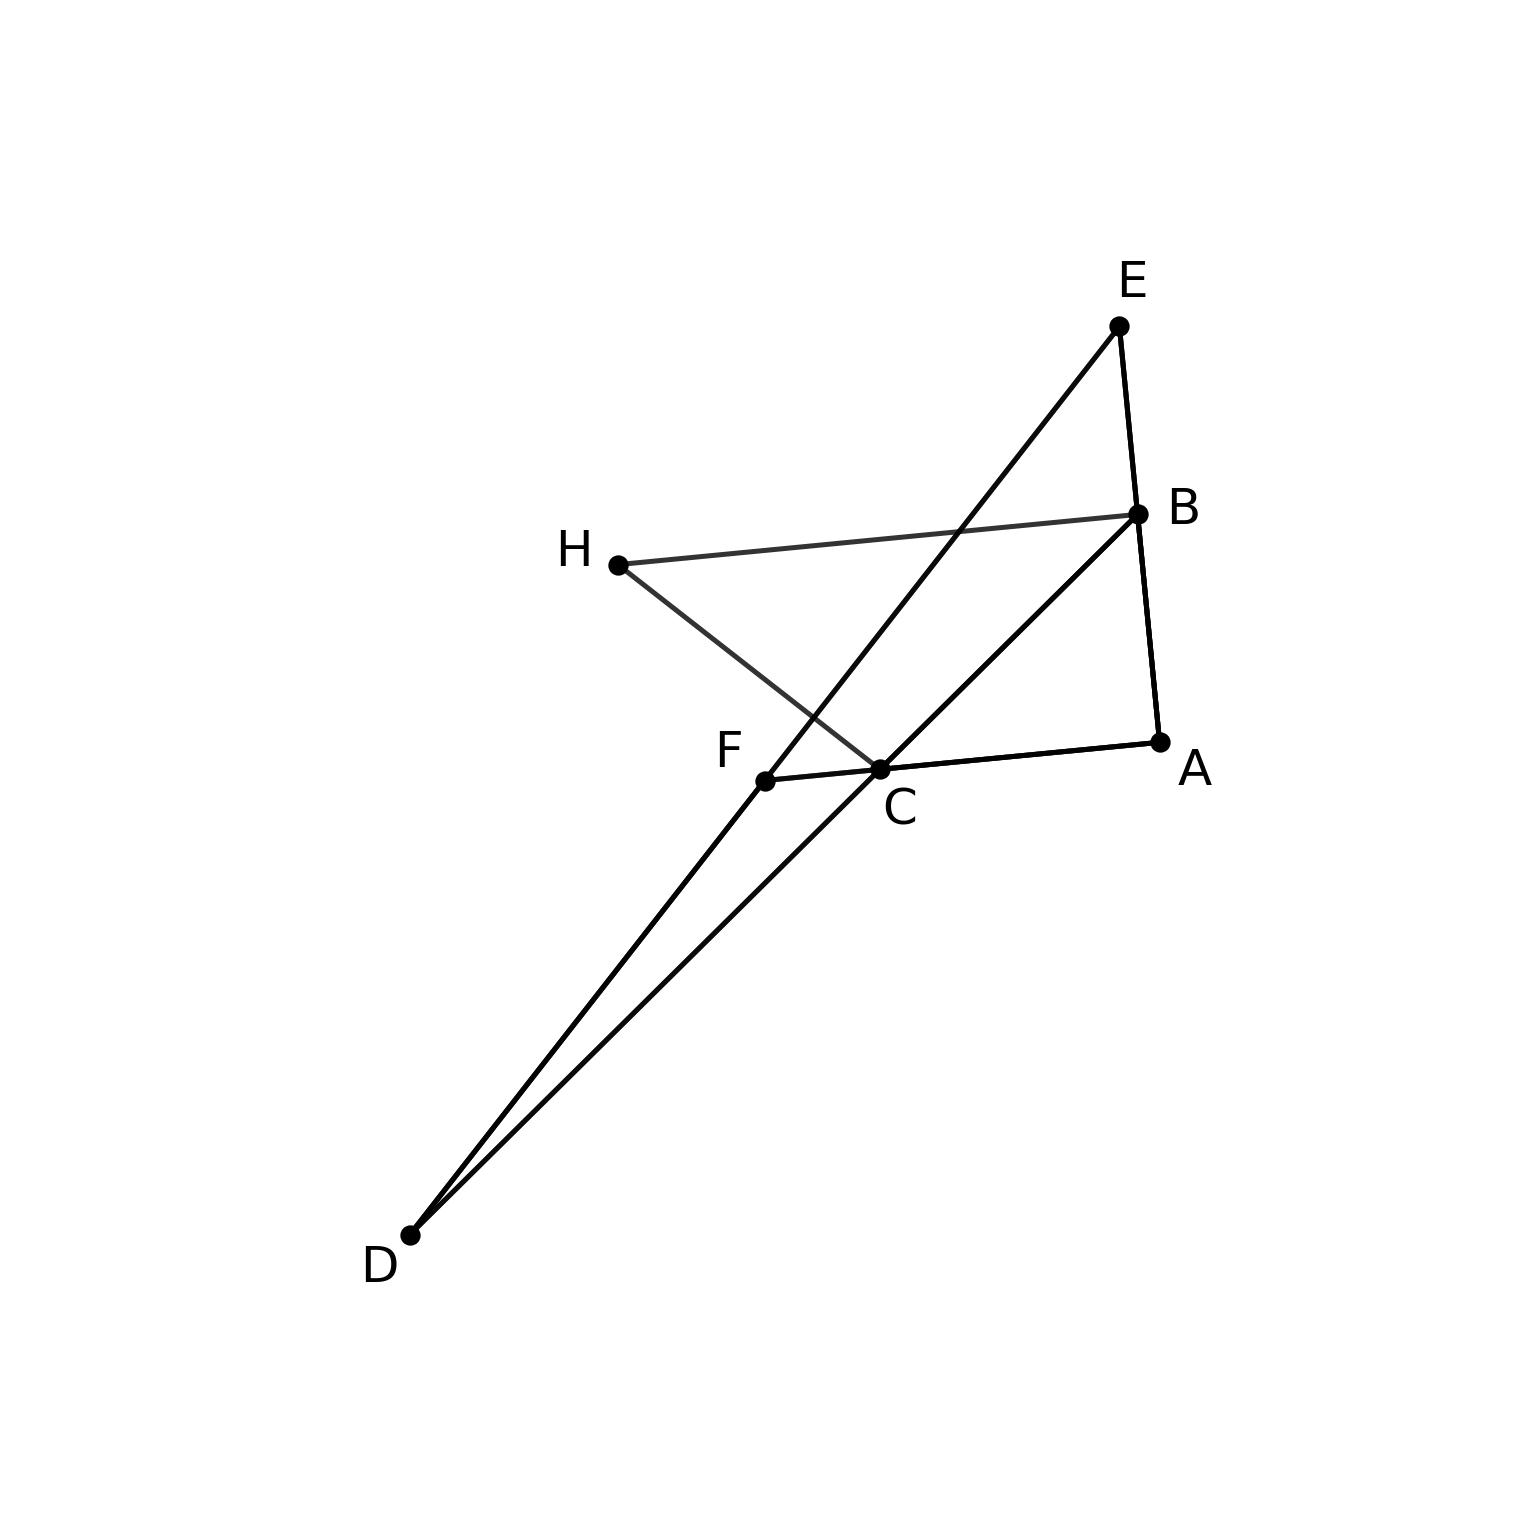
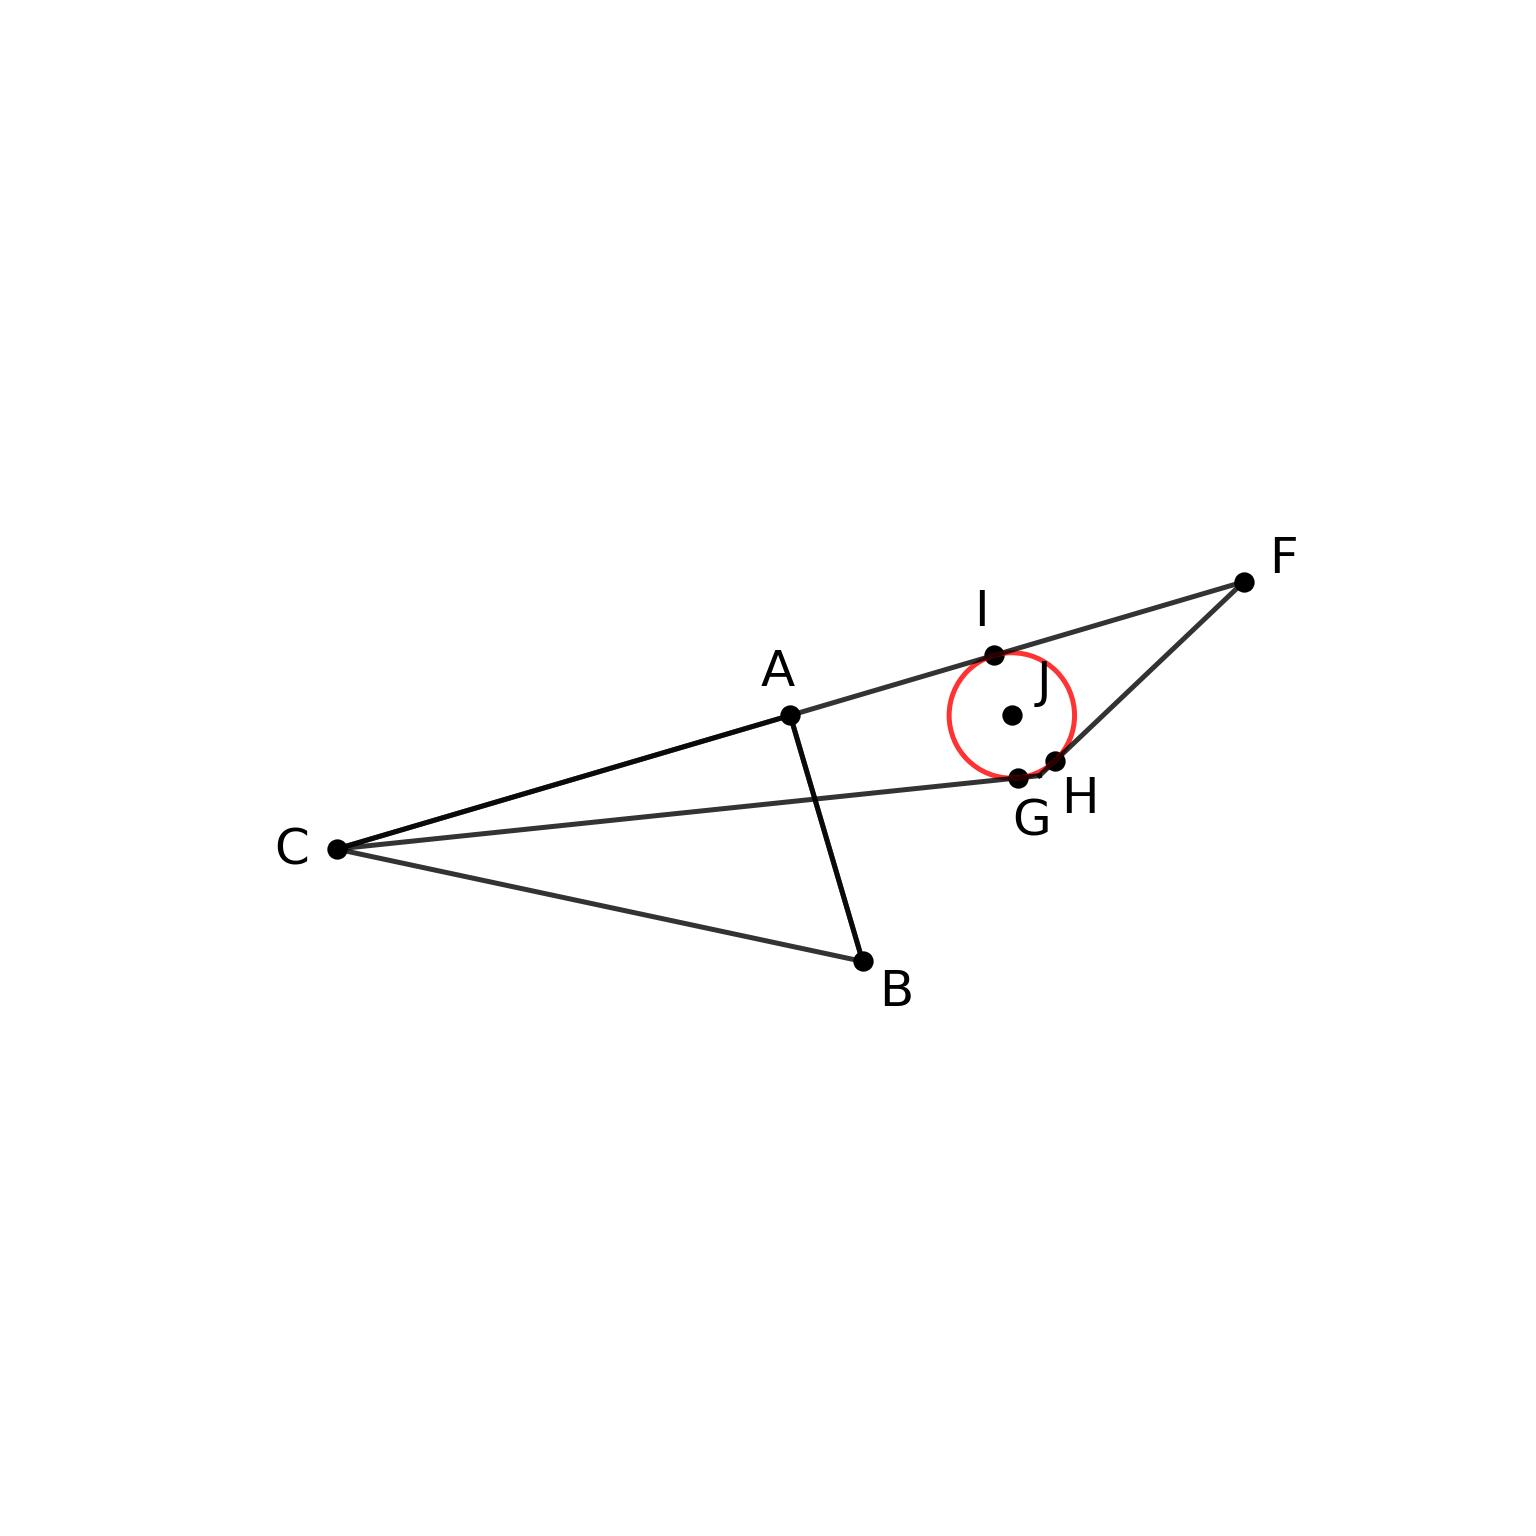
update

diff --git a/test_single.py b/test_single.py
@@ -4,11 +4,13 @@ import sympy
 import logging
 import argparse
 
+from stopit import ThreadingTimeout as TT
+
 from pyeuclid.formalization.state import State
 from pyeuclid.formalization.relation import *
 from pyeuclid.formalization.construction_rule import *
 from pyeuclid.formalization.utils import *
-from pyeuclid.engine.inference_rule import inference_rule_sets
+from pyeuclid.engine.inference_rule import *
 from pyeuclid.engine.deductive_database import DeductiveDatabase
 from pyeuclid.engine.algebraic_system import AlgebraicSystem
 from pyeuclid.engine.proof_generator import ProofGenerator
@@ -24,7 +26,7 @@ def run_single_problem(args):
     # state.silent = True
     state.logger.setLevel(logging.INFO)
     if args.problem_string is not None:
-        state.load_problem_from_text(args.problem_string, f'diagrams/JGEX-AG-231/test.jpg', resample=True)
+        state.load_problem_from_text(args.problem_string, f'diagrams/JGEX-AG-231/test.jpg')
     else:
         namespace = {}
         with open(f'data/Geometry3K/{args.problem_id}/problem.py', "r") as file:
@@ -40,32 +42,36 @@ def run_single_problem(args):
     proof_generator = ProofGenerator(state)
     engine = Engine(state, deductive_database, algebraic_system)
     t0 = time.time()
-    engine.run()
-    # while True:
-    #     # 001. BC ∥ FG [04] & BG ∥ CF [05] ⇒  ∠FGB = ∠BCF [07]
-    #     # 002. BG ∥ CF [05] ⇒  ∠FBG = ∠BFC [08]
-    #     # 003. ∠FGB = ∠BCF [07] & ∠FBG = ∠BFC [08] (Similar Triangles)⇒  BG = FC [09]
-    #     # 004. CB = BG [02] & BG = FC [09] ⇒  CF = CB [10]
-    #     # 005. BC ⟂ BG [03] & BC ∥ FG [04] ⇒  GF ⟂ GB [11]
-    #     # 006. AC ⟂ CD [01] & CD ∥ AE [06] ⇒  CA ⟂ AE [12]
-    #     # 007. GF ⟂ GB [11] & CA ⟂ AE [12] ⇒  ∠(FG-AE) = ∠(BG-AC) [13]
-    #     # 008. GF ⟂ GB [11] & CA ⟂ AE [12] ⇒  ∠FGB = ∠CAE [14]
-    #     # 009. ∠(FG-AE) = ∠(BG-AC) [13] & BC ∥ FG [04] & AE ∥ CD [06] & BG ∥ CF [05] ⇒  ∠ACF = ∠DCB [15]
-    #     # 010. AC = CD [00] & CF = CB [10] & ∠ACF = ∠DCB [15] (SAS)⇒  ∠(AF-BD) = ∠FCB [16]
-    #     # 011. AC = CD [00] & CF = CB [10] & ∠ACF = ∠DCB [15] (SAS)⇒  ∠DCA = ∠(BD-AF) [17]
-    #     # 012. ∠(AF-BD) = ∠FCB [16] & CF ∥ BG [05] & ∠FGB = ∠CAE [14] & BC ∥ FG [04] & AE ∥ CD [06] & ∠DCA = ∠(BD-AF) [17] ⇒  DB ⟂ FA
-    #     engine.search(depth=1)
-    #     p1 = state.check_conditions(Length(Point('b'),Point('g'))-Length(Point('f'),Point('c')))
-    #     p2 = state.check_conditions(Angle(Point('f'),Point('g'),Point('b'))-Angle(Point('c'),Point('a'),Point('e')))
-    #     p3 = state.check_conditions(Angle(Point('a'),Point('c'),Point('f'))-Angle(Point('d'),Point('c'),Point('b')))
-    #     print(p1, p2, p3)
-    #     input()
+    # engine.run()
+    while True:
+        engine.search(depth=1)
+    # 001. P,C,A are collinear [03] & B,Q,A are collinear [01] & DQ ⟂ AB [02] & DP ⟂ AC [04] ⇒  ∠APD = ∠AQD [05]
+    # 002. ∠APD = ∠AQD [05] ⇒  P,Q,D,A are concyclic [06]
+    # 003. P,Q,D,A are concyclic [06] ⇒  ∠PQD = ∠PAD [07]
+    # 004. B,Q,A are collinear [01] & DQ ⟂ AB [02] ⇒  QD ⟂ BQ [08]
+    # 005. QD ⟂ BQ [08] & AD ⟂ BC [00] ⇒  ∠QDA = ∠QBC [09]
+    # 006. B,Q,A are collinear [01] & P,C,A are collinear [03] & ∠PQD = ∠PAD [07] & ∠QDA = ∠QBC [09] ⇒  ∠QBC = ∠QPC [10]
+    # 007. ∠QBC = ∠QPC [10] ⇒  B,Q,P,C are concyclic
+        p1 = state.check_conditions(Angle(Point('a'),Point('p'),Point('d'))-Angle(Point('a'),Point('q'),Point('d')))
+        p2 = state.check_conditions(Concyclic(Point('p'),Point('q'),Point('d'),Point('a')))
+        p3 = state.check_conditions(Angle(Point('p'),Point('q'),Point('d'))-Angle(Point('p'),Point('a'),Point('d')))
+        p4 = state.check_conditions(Perpendicular(Point('q'),Point('d'),Point('b'),Point('q')))
+        p5 = state.check_conditions(Angle(Point('q'),Point('d'),Point('a'))-Angle(Point('q'),Point('b'),Point('c')))
+        p6 = state.check_conditions(Angle(Point('q'),Point('b'),Point('c'))+Angle(Point('q'),Point('p'),Point('c'))-pi)
+        p7 = state.check_conditions(Concyclic(Point('b'),Point('q'),Point('p'),Point('c')))
+        print(p1, p2, p3, p4, p5, p6,p7)
+        for cond in AlphaGeometry5b(Point('c'),Point('q'),Point('b'),Point('p')).condition():
+            print(cond, state.check_conditions(cond))
+        print(AlphaGeometry5b(Point('c'),Point('q'),Point('b'),Point('p')).conclusion())
+        print(state.angles.equivalence_classes())
+        breakpoint()
+        
     t = time.time() - t0
     result = state.complete()
     if result is not None:
         if args.show_proof:
             t0 = time.time()
-            with Timeout(600):
+            with TT(600):
                 proof_generator.run()
                 proof = proof_generator.format_proof()
                 max_cond_num = 0

diff --git a/generate.py b/generate.py
@@ -5,6 +5,7 @@ import random
 from pyeuclid.formalization.diagram import Diagram
 from pyeuclid.formalization.state import State
 from pyeuclid.formalization.construction_rule import *
+from pyeuclid.formalization.translation import get_constructions_from_goal
 from pyeuclid.engine.deductive_database import DeductiveDatabase
 from pyeuclid.engine.algebraic_system import AlgebraicSystem
 from pyeuclid.engine.proof_generator import ProofGenerator
@@ -97,13 +98,14 @@ def generate():
     engine.search()
 
     i = 0
-    def generate_data(relation, i):
-        if isinstance(relation, Relation):  
-            points = relation.get_points()
+    def generate_data(goal, i):
+        if isinstance(goal, Relation):  
+            points = goal.get_points()
         else:
-            points = get_points_and_symbols(relation)[0]
+            points_list = get_points_and_symbols(goal)[0]
+            points = [p for points in points_list for p in points]
         
-        constructions = proof_generator.source_constructions[relation]
+        constructions = proof_generator.source_constructions[goal]
         auxilirary_constructions = []
         required_points = set(points)
 
@@ -115,7 +117,7 @@ def generate():
             if all(p not in required_points for p in construction.outputs):
                 auxilirary_constructions.append(construction)
 
-        proof_str = proof_generator.get_proof_str(relation)
+        proof_str = proof_generator.get_proof_str(goal)
         if auxilirary_constructions:
             auxilirary_constructions = sorted(auxilirary_constructions, key=lambda c: c.index)
             aux_proof = 'Auxilirary Constructions:\n'
@@ -124,16 +126,19 @@ def generate():
             proof_str = aux_proof + proof_str
 
         diagram.save()
-        proof = proof_generator.get_proof(relation)        
+        proof = proof_generator.get_proof(goal)        
         diagram.auxiliary_constructions.extend(auxilirary_constructions)
         diagram_path = os.path.join(ROOT_DIR, f'samples/{i}/diagram.jpg')
         diagram.save_path = diagram_path
-        diagram.draw_diagram(constructions=constructions, save=True)
+        goal_constructions = get_constructions_from_goal(goal)
+        diagram.draw([], goal_constructions)
+        diagram.draw_diagram(constructions=constructions+goal_constructions, save=True)
         diagram.restore()
         
         data_path = os.path.join(ROOT_DIR, f'samples/{i}/')
         data = {
             "problem": ', '.join([str(construction) for construction in constructions]),
+            "goal": goal,
             "diagram": diagram_path,
             "proof": proof_str,
         }
@@ -142,7 +147,7 @@ def generate():
             json.dump(data, f, indent=2)
         i += 1
 
-        print(relation)
+        print(goal)
         input()
     
     proof_generator = ProofGenerator(state)

diff --git a/pyeuclid/formalization/translation.py b/pyeuclid/formalization/translation.py
@@ -43,25 +43,47 @@ def get_constructions_list_from_text(text):
 def get_constructions_from_goal(goal):
     if isinstance(goal, Relation):
         if isinstance(goal, Concyclic):
-            pass
+            a, b, c, d = goal.get_points()
+            return [construct_connect(a, b), construct_connect(b, c), construct_connect(c, d), construct_connect(d, a)]
         elif isinstance(goal, Collinear):
-            pass
+            a, b, c = goal.get_points()
+            return [construct_connect(a, b), construct_connect(b, c), construct_connect(c, a)]
         elif isinstance(goal, Perpendicular):
-            pass
+            a, b, c, d = goal.get_points()
+            return [construct_connect(a, b), construct_connect(c, d)]
         elif isinstance(goal, Parallel):
-            pass
+            a, b, c, d = goal.get_points()
+            return [construct_connect(a, b), construct_connect(c, d)]
         elif isinstance(goal, Midpoint):
-            pass
+            a, b, c = goal.get_points()
+            return [construct_connect(a, b), construct_connect(b, c), construct_connect(c, a)]
         elif isinstance(goal, Similar3):
-            pass
+            a, b, c, d, e, f = goal.get_points()
+            return [construct_connect(a, b), construct_connect(b, c), construct_connect(c, a), construct_connect(d, e), construct_connect(e, f), construct_connect(f, d)]
         elif isinstance(goal, Congruent3):
-            pass
+            a, b, c, d, e, f = goal.get_points()
+            return [construct_connect(a, b), construct_connect(b, c), construct_connect(c, a), construct_connect(d, e), construct_connect(e, f), construct_connect(f, d)]
         else:
             return []
     else:
+
         # classify angles - angles, angles + angles - const, angles - const, angles / angles - const,
-        # lengths - lenghs, lengths + lengths - const, lengths - const, lengths / lengths - const, length/length - length/length
-        return []
+        # lengths - lenghs, lengths + lengths - const, lengths - const, lengths / lengths - const, length/length - length/length 
+        res = []
+        points_list, symbols = get_points_and_symbols(goal)
+        for points, symbol in zip(points_list, symbols):
+            if 'Length' in str(symbol):
+                assert len(points) == 2
+                res.append(construct_connect(points[0], points[1]))
+            elif 'Angle' in str(symbol):
+                assert len(points) == 3
+                res.append(construct_connect(points[0], points[1]), construct_connect(points[1], points[2]))
+            else:
+                l = len(points)
+                for i in range(l-1):
+                    res.append(construct_connect(points[i], points[i+1]))
+                res.append(construct_connect(points[l-1], points[0]))
+        return res
 
 
 def get_goal_from_text(text):

diff --git a/pyeuclid/formalization/diagram.py b/pyeuclid/formalization/diagram.py
@@ -127,7 +127,6 @@ class Diagram:
             try:
                 new_points = self.construct(constructions)
                 self.draw(new_points, constructions, auxiliary)
-                self.constructions_list.append(constructions)
                 return
             except:
                 self.restore()
@@ -141,7 +140,6 @@ class Diagram:
                 for constructions in constructions_list:
                     new_points = self.construct(constructions)
                     self.draw(new_points, constructions, auxiliary=False)
-                    self.constructions_list.append(constructions)
                 self.draw_diagram()
                 self.save_to_cache()
                 return
@@ -895,7 +893,7 @@ class Diagram:
             else:
                 return [np.random.choice([a, b])]
     
-    def draw(self, new_points, constructions, auxiliary):
+    def draw(self, new_points, constructions, auxiliary=False):
         for construction in constructions:
             before_segments = len(self.segments)
             before_circles = len(self.circles)
@@ -912,6 +910,7 @@ class Diagram:
             )
             if auxiliary:
                 self.auxiliary_constructions.append(construction)
+            self.constructions_list.append(constructions)
             
     def draw_angle_bisector(self, *args):
         x, a, b, c = args

diff --git a/test.py b/test.py
@@ -4,6 +4,8 @@ import time
 import os
 from sympy import sympify
 
+from stopit import ThreadingTimeout as TT
+
 from pyeuclid.formalization.state import State
 from pyeuclid.formalization.relation import *
 from pyeuclid.formalization.translation import parse_texts_from_file
@@ -14,6 +16,7 @@ from pyeuclid.engine.deductive_database import DeductiveDatabase
 from pyeuclid.engine.algebraic_system import AlgebraicSystem
 from pyeuclid.engine.proof_generator import ProofGenerator
 from pyeuclid.engine.engine import Engine
+
 import traceback
 
 class TestBenchmarks(unittest.TestCase):
@@ -35,13 +38,13 @@ class TestBenchmarks(unittest.TestCase):
                 proof_generator = ProofGenerator(state)
                 engine = Engine(state, deductive_database, algebraic_system)
                 t = time.time()
-                with Timeout(600):
+                with TT(600):
                     engine.run()
                 t = time.time() - t
                 if state.complete() is not None:
                     print(f"{idx} solved in {t} seconds")
                     # t0 = time.time()
-                    # with Timeout(60):
+                    # with TT(60):
                     #     proof_generator.run()
                 #         proof = proof_generator.format_proof()
                 #         max_cond_num = 0

diff --git a/pyeuclid/formalization/state.py b/pyeuclid/formalization/state.py
@@ -101,7 +101,8 @@ class State:
     def add_equation(self, equation):
         # allow redundant equations for neat proofs
         equation = Traced(equation, depth=self.current_depth)
-        points, quantities = get_points_and_symbols(equation)
+        points_list, quantities = get_points_and_symbols(equation)
+        points = [p for points in points_list for p in points]
         for p in points:
             self.add_point(p)
         unionfind = None
@@ -200,7 +201,9 @@ class State:
         
         self.diagram = diagram
         self.goal = satisfied_goal
-        self.diagram.show()
+        goal_constructions = get_constructions_from_goal(satisfied_goal)
+        self.diagram.draw([], goal_constructions)
+        self.diagram.draw_diagram()
         
         for constructions in constructions_list:
             self.add_constructions(constructions)

diff --git a/pyeuclid/engine/proof_generator.py b/pyeuclid/engine/proof_generator.py
@@ -201,7 +201,7 @@ class ProofGenerator:
         print(res)
     
     def get_proof_str(self, node=None):
-        res = ""
+        res = "Solution:\n"
         proof = self.get_proof(node)
         for step, (condition, conclusion) in enumerate(proof):
             res += f'{step+1}. ' + ' & '.join([str(item) for item in condition]) + ' => ' + str(conclusion) + '\n'
@@ -340,7 +340,6 @@ class ProofGenerator:
     def find_conditions(self, equations: list[Traced], conclusion, source):
         conclusion = self.simplify_expr(conclusion)
         angle_linear, length_linear, length_ratio, others = classify_equations(equations, self.state.var_types)
-        print('length_ratio', length_ratio)
         """Given sympified equations and conclusions, return a list of necessary conditions"""
         def try_find(equations, conclusion):
             variables = set()

diff --git a/pyeuclid/engine/deductive_database.py b/pyeuclid/engine/deductive_database.py
@@ -149,7 +149,8 @@ class DeductiveDatabase():
                     r"^-?Angle\w+ [-\+] [\w/\d]+$")
                 pattern_angle_sum = re.compile(
                     r"^-?Angle\w+ [-\+] Angle\w+ [-\+] [\w/\d]+$")
-                points, _ = get_points_and_symbols(relation)
+                points_list, _ = get_points_and_symbols(relation)
+                points = [p for points in points_list for p in points]
                 
                 def same_component(l, r, table):
                     query_diff = f" INNER JOIN {table} r{i}l INNER JOIN {table} r{i}r"

diff --git a/pyeuclid/formalization/relation.py b/pyeuclid/formalization/relation.py
@@ -652,6 +652,6 @@ def get_points_and_symbols(eqn):
                 symbol = Length(*args)
             elif cls == "Area":
                 symbol = Area(*args)
-            points += args
+            points.append(args)
         symbols.append(symbol)
     return points, symbols

diff --git a/pyeuclid/formalization/construction_rule.py b/pyeuclid/formalization/construction_rule.py
@@ -1618,7 +1618,7 @@ class construct_connect(ConstructionRule):
         self.outputs = None
 
     def conditions(self):
-        a, b, c = self.inputs
+        a, b = self.inputs
         return [Different2(a, b)]
 
 @register("diagrammatic")
